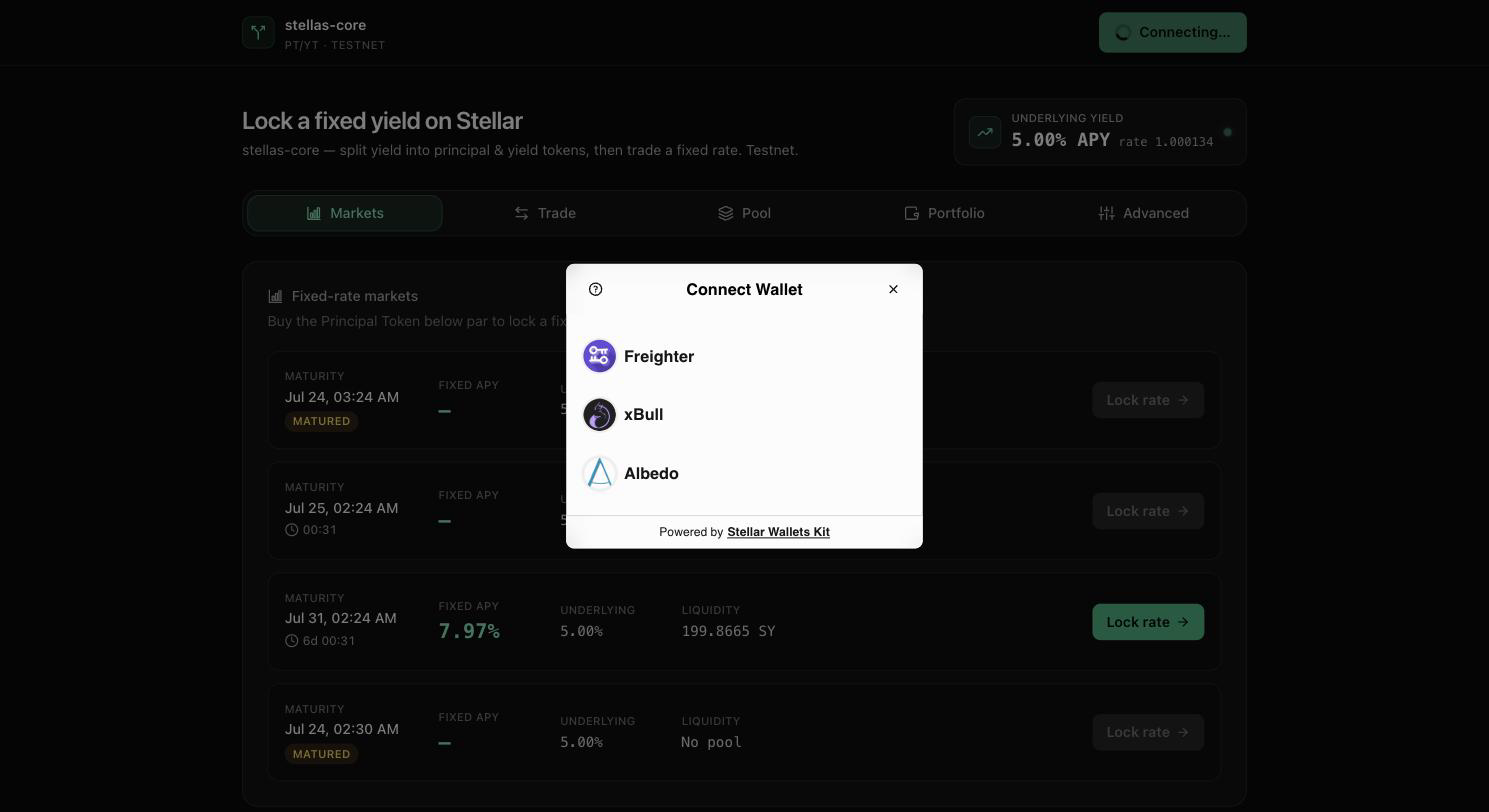
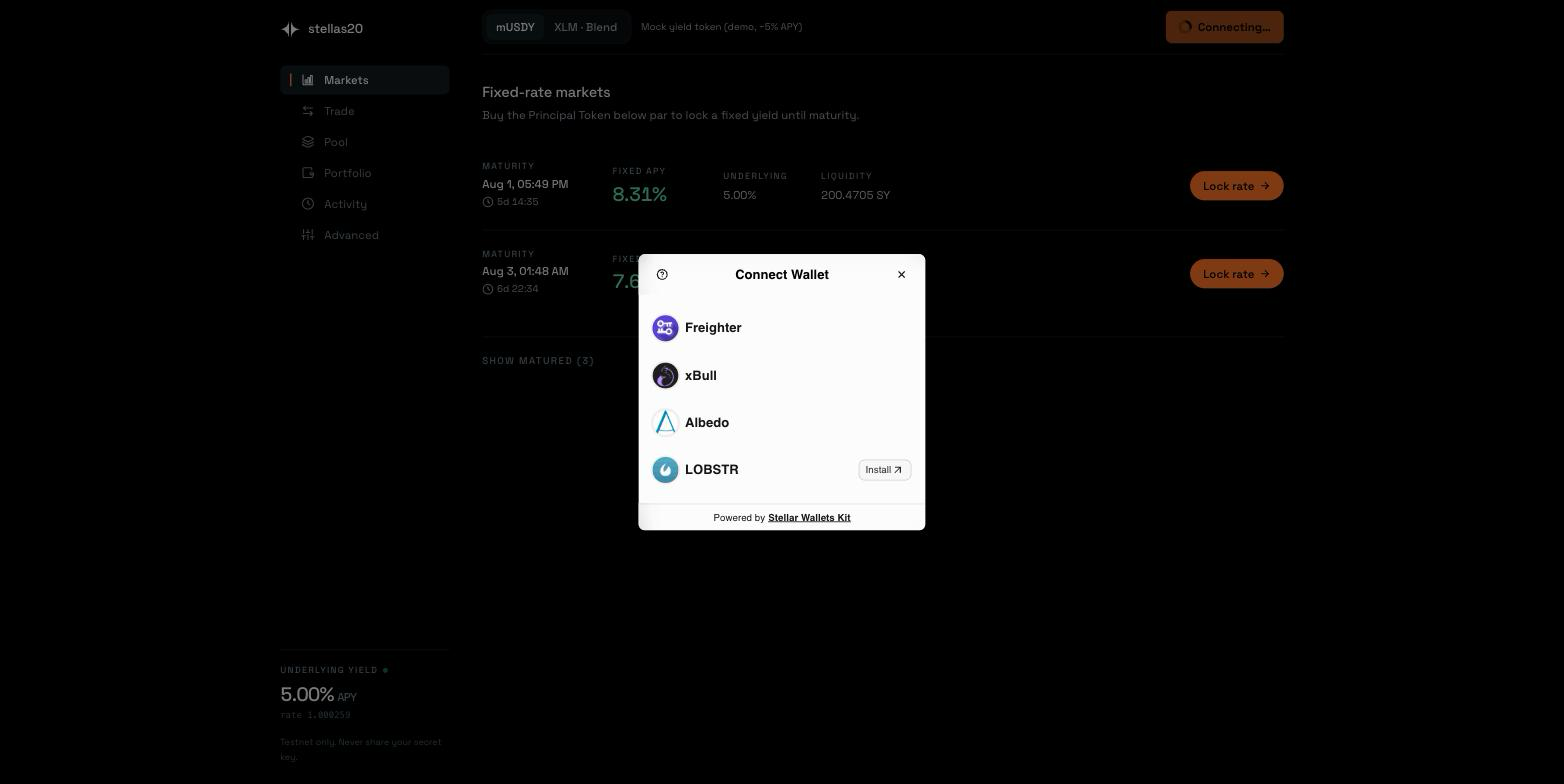
docs: refresh the screenshots — the old ones showed a product that no longer exists
markets-desktop.png and wallet-picker.png were captured before the rebrand:
old name (stellas-core), old logo, the green palette and the horizontal tab
strip. A reviewer opening the live site would have found something entirely
different from the README, which is worse than having no screenshot at all.
The picker shot also predated LOBSTR being added, so it showed three wallets
where the app now offers four.

Both retaken from the live deployment, and the captions now say what is being
demonstrated rather than just naming the file.

diff --git a/README.md b/README.md
@@ -402,14 +402,13 @@ one row per maturity with its implied **fixed APY**, the underlying yield APY, a
 
 ## Screenshots
 
-| | |
+| **Markets — live fixed rates** | **Multi-wallet picker** |
 |---|---|
-| **Markets — fixed-rate discovery** | **Multi-wallet picker** |
-| ![Markets tab on the live site](screenshots/markets-desktop.png) | ![StellarWalletsKit wallet picker](screenshots/wallet-picker.png) |
+| ![Markets tab on the live site, two maturities quoting 8.31% and 7.60% fixed APY](screenshots/markets-desktop.png) | ![StellarWalletsKit picker offering Freighter, xBull, Albedo and LOBSTR](screenshots/wallet-picker.png) |
 
-| **Mobile — 390px** | **CI pipeline** |
+| **Mobile — 390px** | **CI + test output** |
 |---|---|
-| ![Console at 390px with the bottom navigation bar](screenshots/mobile-390.png) | ![GitHub Actions run, both jobs green](screenshots/ci-run.png) |
+| ![Console at 390px: the left rail becomes a bottom bar and market rows re-flow](screenshots/mobile-390.png) | ![GitHub Actions run with both jobs green and the Vitest summary: 9 files, 77 tests](screenshots/ci-run.png) |
 
 The [demo video](https://youtu.be/G_06mT7pscw) walks the full flow end to end: locking a fixed rate, splitting SY, watching
 yield accrue, and claiming it — every step a signed Testnet transaction.
